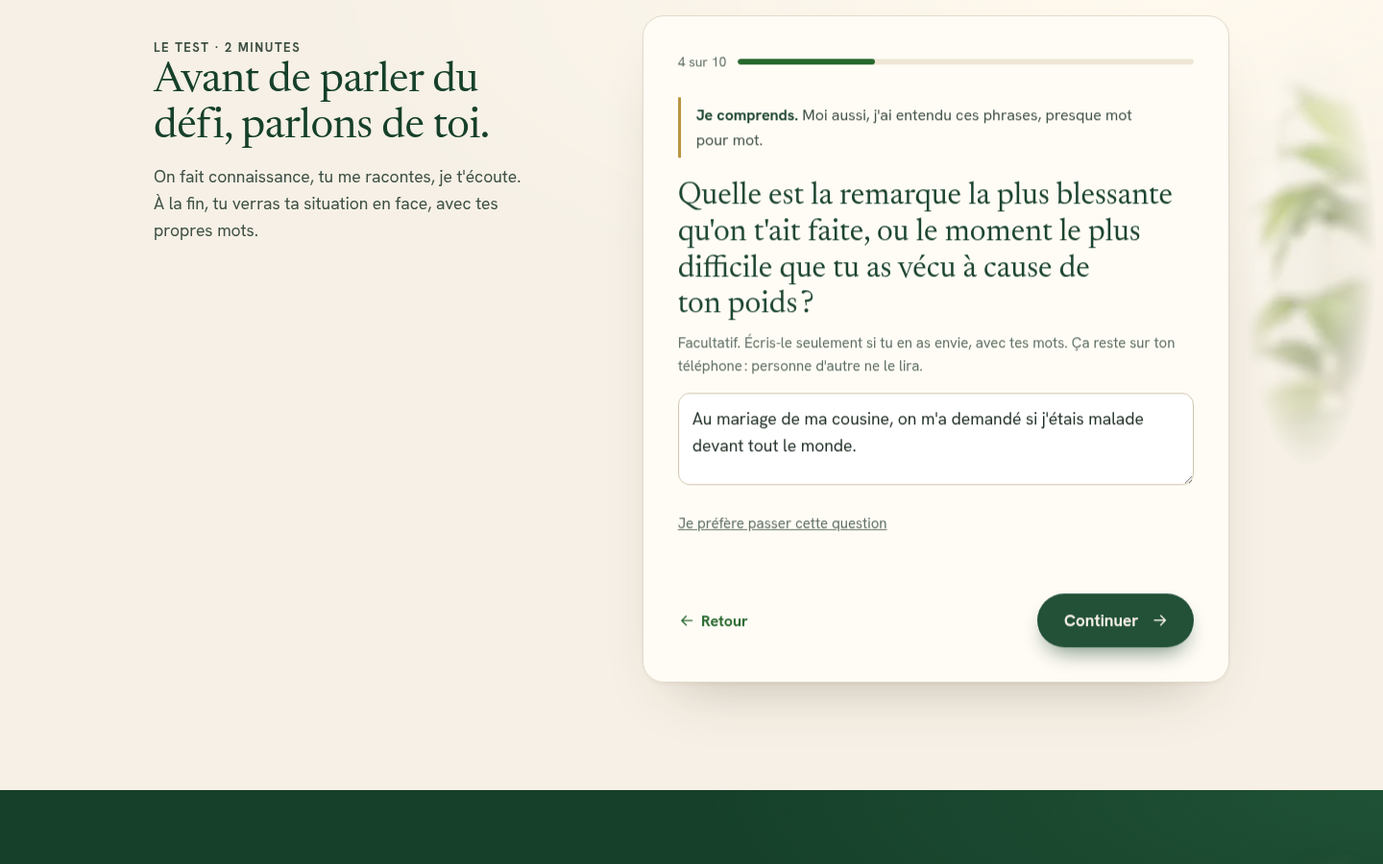
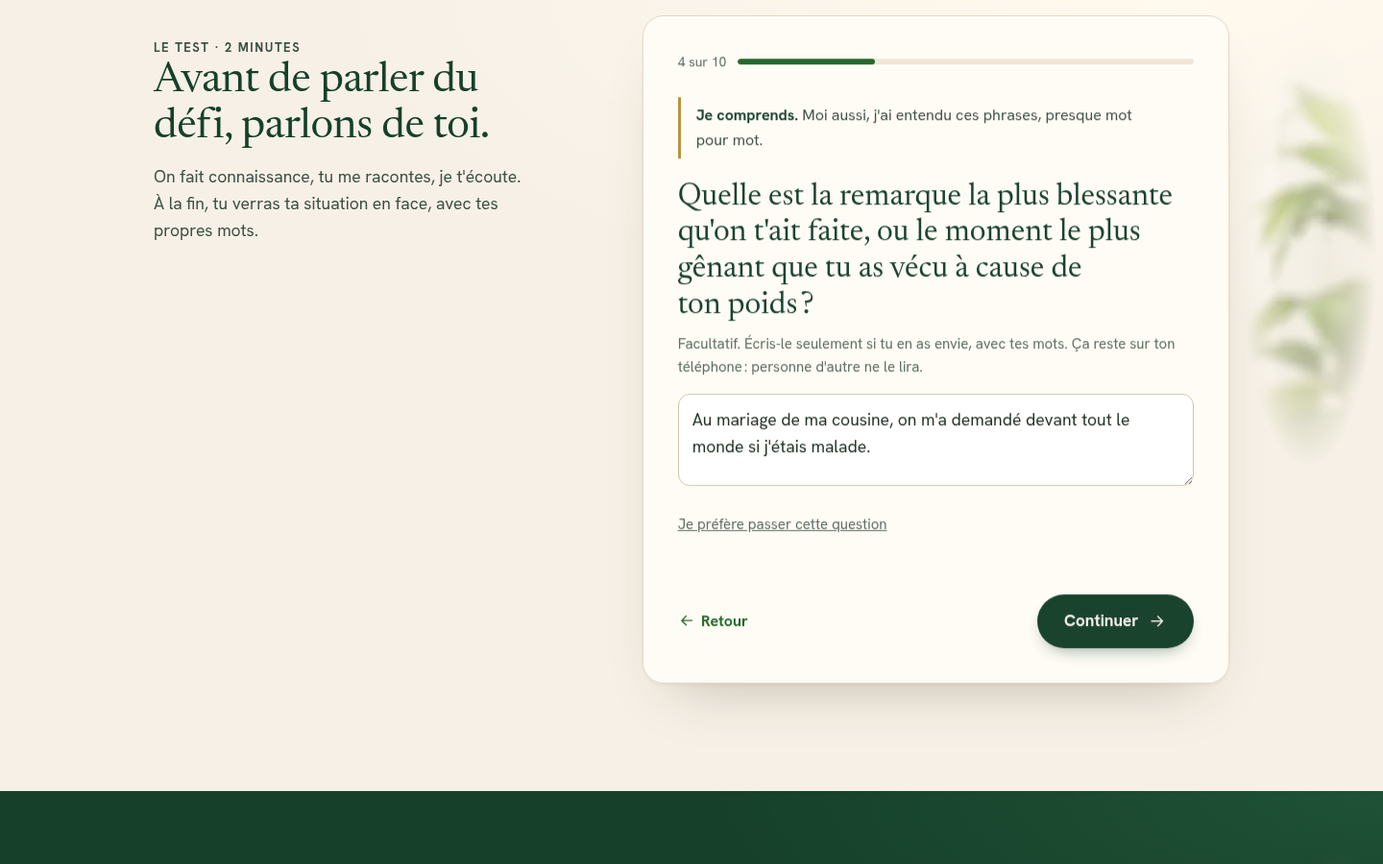
Livensya : tunnel v3 (David, histoire du livre, contact avec icônes, effets de la section finale)
Claude-Session: https://claude.ai/code/session_01SDp3TmwNu6wkPxHhoSS3B7

diff --git a/sites/livensya/js/app.js b/sites/livensya/js/app.js
@@ -14,7 +14,7 @@ const VIDEO_AFFICHE = '';
 
 /* Prénom du narrateur, celui du livre « Défi 60 jours ». Il remplit tous les [data-prenom] de la page
    et parle dans le test. Laisse vide ('') pour un texte neutre (la phrase « Moi, c'est … » disparaît). */
-const PRENOM_NARRATEUR = '[Prénom]';
+const PRENOM_NARRATEUR = 'David';
 
 /* Pour brancher plus tard une collecte (Google Sheets, CRM, WhatsApp…).
    Pour l'instant : NE FAIT RIEN, aucune donnée ne quitte le téléphone. */
@@ -101,22 +101,22 @@ function envoyerLead(donnees) {
       titre: function () { return avecPrenom('Enchanté, ', '. ') + 'Depuis quand tu te trouves mince ?'; },
       options: [['enfance', "Depuis toujours, depuis l'enfance"], ['ado', "Depuis l'adolescence"], ['annees', 'Depuis quelques années'], ['recent', "Depuis peu : j'ai perdu du poids sans savoir pourquoi"]] },
     { id: 'phrases', type: 'multi', titre: "Qu'est-ce qu'on te dit le plus souvent ?", aide: 'Choisis tout ce que tu entends.', citations: true,
-      options: [['vent', '« Le vent va t\'emporter. »'], ['mange', '« Mange un peu, toi. »'], ['malade', '« Tu es malade ? »'], ['age', '« Tu as quel âge, 15 ans ? »'], ['maison', '« On ne te donne pas à manger chez toi ? »'], ['rien', "On ne me dit rien, mais je le pense"]] },
+      options: [['vent', '« Le vent va t\'emporter. »'], ['mange', '« Mange un peu, toi. »'], ['malade', '« Tu es malade ? »'], ['age', '« Tu as quel âge, 15 ans ? »'], ['maison', '« On ne te donne pas à manger chez toi ? »'], ['rien', "On ne me dit rien, mais je le pense"], ['autre', 'Autre chose']], autre: true },
     { id: 'blessure', type: 'texte',
       encart: function () { return '<strong>Je comprends.</strong> Moi aussi, j\'ai entendu ces phrases, presque mot pour mot.'; },
-      titre: "Quelle est la remarque la plus blessante qu'on t'ait faite, ou le moment le plus difficile que tu as vécu à cause de ton poids ?",
+      titre: "Quelle est la remarque la plus blessante qu'on t'ait faite, ou le moment le plus gênant que tu as vécu à cause de ton poids ?",
       aide: 'Facultatif. Écris-le seulement si tu en as envie, avec tes mots. Ça reste sur ton téléphone : personne d\'autre ne le lira.',
       placeholder: 'ex. Le jour où…', passer: 'Je préfère passer cette question' },
     { id: 'essais', type: 'multi', titre: "Qu'est-ce que tu as déjà essayé pour prendre du poids ?", aide: 'Choisis tout ce qui te concerne.',
-      encart: function () { return R.blessure ? '<strong>Merci de m\'avoir confié ça.</strong> Ce n\'est pas rien de l\'écrire. Moi aussi, je l\'ai vécu.' : ''; },
+      encart: function () { return R.blessure ? '<strong>Merci de m\'avoir confié ça.</strong> Ce n\'est pas rien de l\'écrire. Moi aussi, j\'ai vécu un moment comme ça.' : ''; },
       options: [['forcer', 'Me forcer à manger plus'], ['sirops', 'Des sirops ou des comprimés pour grossir'], ['poudres', 'Des poudres ou des compléments'], ['sport', 'Le sport ou la musculation'], ['rien', "Rien de précis pour l'instant"]] },
     { id: 'miroir', type: 'unique', titre: 'Devant le miroir ou sur une photo, tu…',
       options: [['evite', "J'évite les photos"], ['cache', 'Je cache mon corps sous des habits larges'], ['compare', 'Je me compare aux autres'], ['ok', 'Ça va, mais je veux me sentir mieux']] },
     { id: 'mesures', type: 'mesures', titre: 'Ton âge, ta taille et ton poids',
       aide: 'Pourquoi je te demande ça : pour calculer ton IMC, un repère indicatif. Rien n\'est envoyé, tout reste sur ton téléphone.' },
     { id: 'image', type: 'unique',
-      encart: function () { return '<strong>' + (avecPrenom('Merci, ', '.') || 'Merci.') + '</strong> Un chiffre n\'est pas un jugement, c\'est juste ton point de départ. Le mien aussi était bas.'; },
-      titre: "Quand tu t'imagines avec ton poids idéal, qu'est-ce que tu remarques en premier ?",
+      encart: function () { return '<strong>' + (avecPrenom('Merci, ', '.') || 'Merci.') + '</strong> Un chiffre n\'est pas un jugement, c\'est juste ton point de départ. Moi aussi, je suis parti de là.'; },
+      titre: "Imagine-toi avec ton poids idéal. Quelle serait la première chose que tu aimerais sur toi ?",
       options: [['visage', 'Mon visage, plus plein et reposé'], ['epaules', 'Mes épaules et mes bras, plus solides'], ['habits', 'Mes vêtements, enfin à ma taille'], ['silhouette', 'Ma silhouette, plus harmonieuse'], ['regard', 'Mon regard, plus sûr de moi']] },
     { id: 'vivre', type: 'vivre', titre: 'Comment tu te vois dans 60 jours ?', aide: 'Choisis ce qui te parle, puis dis-le avec tes mots si tu veux.',
       options: [['tenue', 'Je porte une tenue ajustée, sans gêne'], ['enfant', 'On ne me prend plus pour un enfant'], ['photo', "J'ai une photo de moi que j'ai envie de partager"], ['plage', 'Je vais à la plage sans me cacher'], ['remarques', 'Les remarques ne me touchent plus']] },
@@ -155,7 +155,7 @@ function envoyerLead(donnees) {
     return '<div class="choix' + (multi ? ' choix--multi' : '') + '">' + e.options.map(function (o) {
       var coche = multi ? (v || []).indexOf(o[0]) > -1 : v === o[0];
       return '<label><input type="' + (multi ? 'checkbox' : 'radio') + '" name="' + nom + '" value="' + o[0] + '"' + (coche ? ' checked' : '') + '>' +
-        '<span class="case">' + ICONE_COCHE + '</span><span' + (e.citations && o[0] !== 'rien' ? ' class="citation"' : '') + '>' + o[1] + '</span></label>';
+        '<span class="case">' + ICONE_COCHE + '</span><span' + (e.citations && o[0] !== 'rien' && o[0] !== 'autre' ? ' class="citation"' : '') + '>' + o[1] + '</span></label>';
     }).join('') + '</div>';
   }
 
@@ -168,9 +168,10 @@ function envoyerLead(donnees) {
     if (encart) h += '<p class="encart">' + encart + '</p>';
     if (e.type === 'unique' || e.type === 'multi') {
       h += '<fieldset class="question"><legend>' + titre + '</legend>' + (aide ? '<p class="aide">' + aide + '</p>' : '') + htmlOptions(e, e.type === 'multi') + '</fieldset>';
+      if (e.autre) h += '<div class="champ champ--large champ-autre" style="margin-top:12px"' + ((R[e.id] || []).indexOf('autre') > -1 ? '' : ' hidden') + '><label for="autre-' + e.id + '">La phrase qu\'on te dit</label><input id="autre-' + e.id + '" maxlength="90" autocomplete="off" placeholder="ex. Tu vas t\'envoler" value="' + echapper(R.phraseAutre || '') + '"></div>';
     } else if (e.type === 'prenom') {
       h += '<div class="question"><p class="titre-q">' + titre + '</p><p class="aide">' + aide + '</p>' +
-        '<div class="champ champ--large" style="margin-top:16px"><label for="prenom">Ton prénom</label><input id="prenom" autocomplete="given-name" maxlength="30" placeholder="ex. Awa" value="' + echapper(R.prenom || '') + '"></div></div>';
+        '<div class="champ champ--large" style="margin-top:16px"><label for="prenom">Ton prénom</label><input id="prenom" autocomplete="given-name" maxlength="30" placeholder="ex. Ellie" value="' + echapper(R.prenom || '') + '"></div></div>';
     } else if (e.type === 'texte') {
       h += '<div class="question"><p class="titre-q" id="t-' + e.id + '">' + titre + '</p><p class="aide">' + aide + '</p>' +
         '<div class="champ champ--large" style="margin-top:16px"><label class="sr" for="txt-' + e.id + '">Ta réponse</label><textarea id="txt-' + e.id + '" maxlength="280" placeholder="' + e.placeholder + '">' + echapper(R[e.id] || '') + '</textarea></div>' +
@@ -206,6 +207,11 @@ function envoyerLead(donnees) {
     }
     var suiv = carte.querySelector('[data-suivant]');
     if (suiv) suiv.addEventListener('click', function () { valider(e, err) && suivante(); });
+    var caseAutre = carte.querySelector('input[value="autre"]');
+    if (caseAutre) caseAutre.addEventListener('change', function () {
+      var bloc = carte.querySelector('.champ-autre'); bloc.hidden = !caseAutre.checked;
+      if (caseAutre.checked) bloc.querySelector('input').focus();
+    });
     var champ = carte.querySelector('#prenom');
     if (champ) champ.addEventListener('keydown', function (ev) { if (ev.key === 'Enter') { ev.preventDefault(); suiv.click(); } });
     var passer = carte.querySelector('[data-passer]');
@@ -233,6 +239,10 @@ function envoyerLead(donnees) {
         R.phrase = (carte.querySelector('#phrase').value || '').trim().slice(0, 140);
         if (!v.length && !R.phrase) { err.textContent = typo('Choisis au moins une réponse, ou écris ta phrase.'); return false; }
       } else if (!v.length) { err.textContent = typo('Choisis au moins une réponse.'); return false; }
+      if (e.autre) {
+        R.phraseAutre = v.indexOf('autre') > -1 ? (carte.querySelector('#autre-' + e.id).value || '').trim().replace(/^[«"\s]+|[»"\s.!?]+$/g, '').slice(0, 90) : '';
+        if (v.indexOf('autre') > -1 && !R.phraseAutre) { err.textContent = typo('Écris la phrase qu\'on te dit, ou décoche « Autre chose ».'); return false; }
+      }
       R[e.id] = v; return true;
     }
     if (e.type === 'mesures') {
@@ -257,7 +267,7 @@ function envoyerLead(donnees) {
   function phraseFinale() {
     if (R.phrase) return R.phrase.replace(/^[«"\s]+|[»"\s]+$/g, '');
     var c = (R.vivre || [])[0];
-    return PHRASES_VIVRE[c] || 'Dans 60 jours, je me reconnais sur mes photos.';
+    return PHRASES_VIVRE[c] || 'Dans 60 jours, on ne me prend plus pour un enfant.';
   }
 
   function terminer() {
@@ -277,13 +287,14 @@ function envoyerLead(donnees) {
       rien: 'Tu n\'as encore rien essayé de précis. Tu pars sans mauvaises habitudes à défaire.'
     };
     var phrases = (R.phrases || []).filter(function (k) { return PHR[k]; }).map(function (k) { return '<span class="entendu">' + PHR[k] + '</span>'; });
+    if (R.phraseAutre) phrases.push('<span class="entendu">« ' + echapper(R.phraseAutre) + ' »</span>');
     var m = R.mesures || {};
 
     var miroir = avecPrenom('<p class="resultat__salut">Merci, ', ', d\'avoir répondu franchement. Je t\'ai lu attentivement.</p>');
     miroir += '<p>' + (DEPUIS[R.depuis] || '') + '</p>';
     if (phrases.length) miroir += '<p>Autour de toi, on te dit encore ' + liste(phrases) + '. ' + (MIR[R.miroir] || '') + '</p>';
     else if (MIR[R.miroir]) miroir += '<p>' + MIR[R.miroir] + '</p>';
-    if (R.blessure) miroir += '<p class="confidence">Tu m\'as confié un moment difficile. Ce que tu as vécu, je l\'ai vécu aussi : ce genre de phrase, on ne l\'oublie pas, même des années après. Tu n\'avais rien fait pour la mériter. Et tu as le droit de vouloir que ça s\'arrête.</p>';
+    if (R.blessure) miroir += '<p class="confidence">Tu m\'as confié un moment gênant. Je sais ce que ça fait : le jour où une personne que j\'appréciais m\'a dit qu\'elle me voyait « comme un frère », parce que je paraissais plus jeune, je ne l\'ai jamais oublié. Ce genre de moment reste longtemps. Tu n\'avais rien fait pour le mériter. Et tu as le droit de vouloir que ça change.</p>';
     (R.essais || []).forEach(function (k) { if (ESS[k]) miroir += '<p>' + ESS[k] + '</p>'; });
 
     var alerte = '';
@@ -309,7 +320,7 @@ function envoyerLead(donnees) {
     var phrase = phraseFinale();
     var cta = horsCible || R.depuis === 'recent' || m.age === 'moins18'
       ? '<div class="heros__actions"><a class="lien-discret" href="#histoire">Lire quand même mon histoire ' + icone('i-bas') + '</a></div>'
-      : '<div class="heros__actions"><a class="bouton bouton--plein" href="' + lienAchat() + '" data-achat>Commencer le défi ' + icone('i-fleche') + '</a><a class="lien-discret" href="#histoire">D\'abord, lire mon histoire</a><a class="lien-discret" href="#contenu">Voir ce que tu reçois</a></div>';
+      : '<div class="heros__actions"><a class="bouton bouton--plein" href="' + lienAchat() + '" data-achat>Commencer le défi ' + icone('i-fleche') + '</a><a class="lien-discret" href="#histoire">D\'abord, lire mon histoire</a></div>';
 
     var h = '<div class="resultat__grille">' +
       '<div class="miroir"><p class="etiquette">Ton résultat</p><h2 id="titre-resultat">Ce que tes réponses nous apprennent.</h2>' + miroir +
@@ -320,7 +331,7 @@ function envoyerLead(donnees) {
       cta + '</div></div>' +
       '<div>' + alerte + imcHtml +
       '<div class="panneau"><h3>Ta phrase</h3><p class="phrase-perso">« ' + echapper(phrase) + ' »</p><p style="margin-top:14px">' + (R.phrase ? 'Ce sont tes mots. ' : '') + 'Garde-la. Si tu fais le défi, écris-la sur la première page de ton carnet.</p></div>' +
-      (R.pret === 'sais-pas' ? '<div class="panneau"><h3>Tu hésites</h3><p>C\'est normal. Moi non plus, je n\'étais pas prêt à 100 %. Le défi ne demande pas d\'être parfait : un jour raté n\'efface pas les autres.</p></div>' : '') +
+      (R.pret === 'sais-pas' ? '<div class="panneau"><h3>Tu hésites</h3><p>C\'est normal. Moi aussi, j\'ai eu des jours sans motivation. Je n\'ai pas été parfait, mais je n\'ai pas abandonné. Le défi ne demande pas d\'être parfait : un jour raté n\'efface pas les autres.</p></div>' : '') +
       '</div></div>';
 
     var sec = document.getElementById('resultat');
@@ -382,6 +393,7 @@ function envoyerLead(donnees) {
   function observateurs() {
     if (!('IntersectionObserver' in window)) {
       document.querySelectorAll('.revele').forEach(function (el) { el.classList.add('vu'); });
+      var f = document.querySelector('.final'); if (f) f.classList.add('anime');
       return;
     }
     var io = new IntersectionObserver(function (es) {
@@ -399,6 +411,11 @@ function envoyerLead(donnees) {
       var a = barre.querySelector('a'); if (a) a.tabIndex = montrer ? 0 : -1;
     });
     cibles.forEach(function (c) { var el = document.querySelector(c); if (el) { el.dataset.zone = c; ob.observe(el); } });
+
+    var fin = document.querySelector('.final');
+    if (fin) new IntersectionObserver(function (es, o) {
+      if (es[0].isIntersecting) { fin.classList.add('anime'); o.disconnect(); }
+    }, { threshold: 0.45 }).observe(fin);
 
     var offre = document.getElementById('offre'), vu = false;
     if (offre) new IntersectionObserver(function (es, o) {

diff --git a/sites/livensya/index.html b/sites/livensya/index.html
@@ -30,6 +30,8 @@
 <body data-page="offre">
 
 <svg width="0" height="0" style="position:absolute" aria-hidden="true">
+  <symbol id="i-whatsapp" viewBox="0 0 24 24"><path d="M17.472 14.382c-.297-.149-1.758-.867-2.03-.967-.273-.099-.471-.148-.67.15-.197.297-.767.966-.94 1.164-.173.199-.347.223-.644.075-.297-.15-1.255-.463-2.39-1.475-.883-.788-1.48-1.761-1.653-2.059-.173-.297-.018-.458.13-.606.134-.133.298-.347.446-.52.149-.174.198-.298.298-.497.099-.198.05-.371-.025-.52-.075-.149-.669-1.612-.916-2.207-.242-.579-.487-.5-.669-.51-.173-.008-.371-.01-.57-.01-.198 0-.52.074-.792.372-.272.297-1.04 1.016-1.04 2.479 0 1.462 1.065 2.875 1.213 3.074.149.198 2.096 3.2 5.077 4.487.709.306 1.262.489 1.694.625.712.227 1.36.195 1.871.118.571-.085 1.758-.719 2.006-1.413.248-.694.248-1.289.173-1.413-.074-.124-.272-.198-.57-.347m-5.421 7.403h-.004a9.87 9.87 0 01-5.031-1.378l-.361-.214-3.741.982.998-3.648-.235-.374a9.86 9.86 0 01-1.51-5.26c.001-5.45 4.436-9.884 9.888-9.884 2.64 0 5.122 1.03 6.988 2.898a9.825 9.825 0 012.893 6.994c-.003 5.45-4.437 9.884-9.885 9.884m8.413-18.297A11.815 11.815 0 0012.05 0C5.495 0 .16 5.335.157 11.892c0 2.096.547 4.142 1.588 5.945L.057 24l6.305-1.654a11.882 11.882 0 005.683 1.448h.005c6.554 0 11.89-5.335 11.893-11.893a11.821 11.821 0 00-3.48-8.413Z"/></symbol>
+  <symbol id="i-enveloppe" viewBox="0 0 24 24"><rect x="3" y="5" width="18" height="14" rx="2"/><path d="M3.5 6.5L12 13l8.5-6.5"/></symbol>
   <symbol id="i-fleche" viewBox="0 0 24 24"><path d="M5 12h14M13 6l6 6-6 6"/></symbol>
   <symbol id="i-bas" viewBox="0 0 24 24"><path d="M12 5v14M6 13l6 6 6-6"/></symbol>
   <symbol id="i-retour" viewBox="0 0 24 24"><path d="M19 12H5M11 6l-6 6 6 6"/></symbol>
@@ -125,11 +127,15 @@
     <div class="recit revele">
       <p class="etiquette">Mon histoire</p>
       <h2 id="titre-histoire" class="titre-section">« On me donnait 14 ans. J'en avais 24. »</h2>
-      <!-- HISTOIRE DU LIVRE À INSÉRER : remplacer les 3 paragraphes provisoires ci-dessous par l'histoire du narrateur, telle qu'elle est racontée dans le livre « Défi 60 jours ». Garder la 1re personne et le tutoiement. -->
-      <p class="lettrine">Pendant des années, j'ai entendu les mêmes phrases que toi. Je mangeais, pourtant, et rien ne changeait. Je finissais par éviter les photos.</p>
-      <p>Ce qui a fini par marcher n'avait rien de magique : des repas mieux construits, avec ce qu'on trouve au marché, et la régularité, un jour après l'autre.</p>
-      <p>Ce défi, c'est ce chemin, rangé en 60 jours, pour que tu n'aies pas à tout chercher seul comme moi.</p>
-      <p class="signature" data-prenom data-repli="L'auteur du défi">L'auteur du défi</p>
+      <!-- Histoire de David, réécrite à la 1re personne d'après la préface du livre « Défi 60 jours ». -->
+      <p class="lettrine">Depuis l'adolescence, je suis très mince. De l'extérieur, j'avais une vie normale : un travail, une famille, des amis. Mais les remarques revenaient sans cesse. « Tu ne manges pas assez ou quoi ? » « Tu es toujours aussi maigre… » « On dirait que tu n'as pas changé depuis le lycée. »</p>
+      <p>Au début, je souriais. Je répondais avec humour. Mais ces phrases ne disparaissaient pas. Elles restaient. Sans m'en rendre compte, j'ai commencé à choisir des vêtements plus amples, à éviter certaines situations, à me mettre toujours à l'arrière sur les photos.</p>
+      <p>Le plus dur, ce n'était pas les remarques. C'était « Mange plus, c'est simple. » Je mangeais déjà correctement, parfois plus que les autres. J'ai essayé des conseils trouvés en ligne, ceux de mes proches, des méthodes entendues ici et là. Rien ne durait. J'ai fini par croire que mon corps ne changerait jamais.</p>
+      <p>Puis il y a eu elle. Une jeune femme que j'appréciais beaucoup. Un jour, je lui ai dit ce que je ressentais. Sa réponse a été douce, mais claire : elle me voyait comme un frère. Entre autres parce que je paraissais plus jeune que mon âge.</p>
+      <p>Ce soir-là, je me suis regardé dans le miroir. Et pour la première fois, je me suis posé la vraie question : « Qu'est-ce que je fais mal depuis tout ce temps ? » J'ai compris qu'il ne me manquait ni volonté, ni effort. Il me manquait une méthode, simple et adaptée à mon quotidien.</p>
+      <p>Les résultats ne sont pas arrivés du jour au lendemain. Mais ils sont arrivés, petit à petit. Mes vêtements ont commencé à mieux m'aller. Et un jour, on m'a dit : « Tu as changé. Tu as bonne mine. » Ce défi, c'est ce chemin, rangé en 60 jours, pour que tu n'aies pas à tout chercher seul, comme moi.</p>
+      <p class="signature" data-prenom data-repli="L'auteur du défi">David</p>
+      <p class="mention-histoire">L'histoire de David est inspirée de situations réelles.</p>
       <div class="relance relance--histoire"><a class="bouton bouton--plein" href="https://ykhzgspm.mychariow.store" data-achat>Faire le défi avec moi <svg class="icone" aria-hidden="true"><use href="#i-fleche"/></svg></a><a class="lien-discret" href="#contenu">D'abord, voir ce que tu reçois</a></div>
     </div>
   </div>
@@ -309,12 +315,12 @@
         <li><svg class="icone" aria-hidden="true"><use href="#i-coche"/></svg><span>Accès à vie, sur ton téléphone</span></li>
       </ul>
       <a class="bouton bouton--plein" href="https://ykhzgspm.mychariow.store" data-achat>Rejoindre le défi maintenant <svg class="icone" aria-hidden="true"><use href="#i-fleche"/></svg></a>
-      <a class="lien-discret lien-whatsapp" href="https://wa.me/22995726957" rel="noopener">Une question avant d'acheter ? Écris-moi sur WhatsApp</a>
+      
       <p class="micro"><svg class="icone" aria-hidden="true"><use href="#i-cadenas"/></svg>Paiement sécurisé par Chariow. Livensya ne voit jamais ton code Mobile Money. Accès par e-mail en quelques minutes. Pas reçu ? Écris-nous sur WhatsApp.</p>
       <div class="moyens" aria-label="Moyens de paiement acceptés"><span>MTN MoMo</span><span>Moov Money</span><span>Orange Money</span><span>Wave</span><span>Carte bancaire</span></div>
       <div class="signe">
-        <img src="images/enock-apres-480.webp" width="64" height="64" loading="lazy" decoding="async" alt="">
-        <p><strong>Une question avant de te lancer ?</strong> Écris-moi sur <a href="https://wa.me/22995726957" rel="noopener">WhatsApp au +229 95 72 69 57</a> ou à <a href="mailto:contact@emkbluediamond.online">contact@emkbluediamond.online</a>. <span data-prenom data-repli="L'auteur du défi">L'auteur du défi</span></p>
+        <p><strong>Une question avant de te lancer ?</strong> Écris-nous, on te répond.</p>
+        <ul class="contacts"><li><a class="contact" href="https://wa.me/22995726957" rel="noopener"><svg class="icone-wa" aria-hidden="true"><use href="#i-whatsapp"/></svg><span>WhatsApp<b>+229 95 72 69 57</b></span></a></li><li><a class="contact" href="mailto:contact@emkbluediamond.online"><svg class="icone" aria-hidden="true"><use href="#i-enveloppe"/></svg><span>E-mail<b>contact@emkbluediamond.online</b></span></a></li></ul>
       </div>
     </div>
     <div class="revele">
@@ -341,7 +347,7 @@
       <h2 id="titre-faq" class="titre-section">Ce qu'on nous demande avant de commencer.</h2>
     </div>
     <div>
-      <details>
+      <details open>
         <summary>Est-ce que ça marche pour les femmes aussi ?<svg class="icone" aria-hidden="true"><use href="#i-plus"/></svg></summary>
         <div><p>Oui. Le défi est pensé pour les hommes et pour les femmes en sous-poids. Les repas et les habitudes sont les mêmes bases.</p></div>
       </details>
@@ -363,7 +369,11 @@
       </details>
       <details>
         <summary>Je n'ai pas reçu l'e-mail, je fais comment ?<svg class="icone" aria-hidden="true"><use href="#i-plus"/></svg></summary>
-        <div><p>Regarde d'abord dans les spams et l'onglet « Promotions ». Ton accès est aussi dans l'e-mail de confirmation de Chariow. Toujours rien ? Écris-nous sur <a href="https://wa.me/22995726957" rel="noopener">WhatsApp au +229 95 72 69 57</a> ou à <a href="mailto:contact@emkbluediamond.online">contact@emkbluediamond.online</a>, avec l'e-mail utilisé pour payer.</p></div>
+        <div><p>Regarde d'abord dans les spams et l'onglet « Promotions ». Ton accès est aussi dans l'e-mail de confirmation de Chariow. Toujours rien ? Écris-nous avec l'e-mail utilisé pour payer :</p><ul class="contacts"><li><a class="contact" href="https://wa.me/22995726957" rel="noopener"><svg class="icone-wa" aria-hidden="true"><use href="#i-whatsapp"/></svg><span>WhatsApp<b>+229 95 72 69 57</b></span></a></li><li><a class="contact" href="mailto:contact@emkbluediamond.online"><svg class="icone" aria-hidden="true"><use href="#i-enveloppe"/></svg><span>E-mail<b>contact@emkbluediamond.online</b></span></a></li></ul></div>
+      </details>
+      <details>
+        <summary>Et si ça ne marche pas pour moi ?<svg class="icone" aria-hidden="true"><use href="#i-plus"/></svg></summary>
+        <div><p>Personne ne peut te promettre un résultat, et on ne le fera pas. Si tu bloques en route, écris-nous sur WhatsApp au +229 95 72 69 57 : on regarde avec toi ce qui coince (repas, rythme, régularité). Et si ton poids ne bouge pas du tout malgré 60 jours réguliers, parles-en à un professionnel de santé.</p></div>
       </details>
       <details>
         <summary>J'ai maigri récemment sans savoir pourquoi. Le défi est pour moi ?<svg class="icone" aria-hidden="true"><use href="#i-plus"/></svg></summary>
@@ -380,8 +390,8 @@
 <!-- ============ 12. FINAL : LES MOTS QUI COMPTENT ============ -->
 <section class="sombre final" aria-labelledby="titre-final">
   <div class="conteneur">
-    <p class="barre-vieux"><s>« Le vent va t'emporter. »</s></p>
-    <h2 id="titre-final" class="mots-finaux">« <span data-phrase-finale>Dans 60 jours, je me reconnais sur mes photos.</span> »</h2>
+    <p class="barre-vieux"><s class="barre-live">« Le vent va t'emporter. »</s></p>
+    <h2 id="titre-final" class="mots-finaux"><span class="souligne-live">« <span data-phrase-finale>Dans 60 jours, on ne me prend plus pour un enfant.</span> »</span></h2>
     <p data-phrase-legende>Les mots qu'on t'a dits, tu ne les choisis pas. Les prochains, si. Le jour 1 peut commencer ce soir.</p>
     <div class="heros__actions">
       <a class="bouton bouton--plein" href="https://ykhzgspm.mychariow.store" data-achat>Commencer le défi <svg class="icone" aria-hidden="true"><use href="#i-fleche"/></svg></a>
@@ -398,8 +408,8 @@
       <a href="https://ykhzgspm.mychariow.store/legal-notice" rel="noopener">Mentions légales</a>
       <a href="https://ykhzgspm.mychariow.store/terms-of-service" rel="noopener">Conditions d'utilisation</a>
       <a href="https://ykhzgspm.mychariow.store/privacy-policy" rel="noopener">Confidentialité</a>
-      <a href="https://wa.me/22995726957" rel="noopener">WhatsApp</a>
-      <a href="mailto:contact@emkbluediamond.online">contact@emkbluediamond.online</a>
+      <a href="https://wa.me/22995726957" rel="noopener" class="pied__contact"><svg class="icone-wa" aria-hidden="true"><use href="#i-whatsapp"/></svg>WhatsApp +229 95 72 69 57</a>
+      <a href="mailto:contact@emkbluediamond.online" class="pied__contact"><svg class="icone" aria-hidden="true"><use href="#i-enveloppe"/></svg>contact@emkbluediamond.online</a>
     </nav>
     <p>Les informations de ce site sont données à titre informatif. Elles ne remplacent pas l'avis d'un médecin ou d'un diététicien. En cas de perte de poids importante ou inexpliquée, consulte un professionnel de santé. Les résultats varient d'une personne à l'autre.</p>
     <p>Le test se fait dans ton navigateur : tes réponses restent sur ton téléphone. Ce site n'est ni affilié ni approuvé par Meta ou Facebook.</p>

diff --git a/sites/livensya/css/style.css b/sites/livensya/css/style.css
@@ -118,6 +118,7 @@ a:hover { text-decoration-thickness: 2px; }
 .tirage figcaption strong { color: var(--encre); display: block; font-family: var(--serif); font-style: italic; font-size: 1.25rem; font-weight: 400; }
 .heros__photo { width: 84%; justify-self: end; position: relative; }
 .heros__photo .tirage { transform: rotate(1.5deg); }
+.heros__photo .tirage figcaption { margin-top: 26px; }
 .presentation { font-family: var(--serif); font-style: italic; font-size: 1.1875rem; line-height: 1.4; color: var(--foret); margin: 0 0 18px; max-width: 22em; }
 .presentation b { font-weight: 500; font-style: italic; }
 .amorce { margin: 20px 0 4px; color: var(--sauge); letter-spacing: .14em; }
@@ -368,9 +369,15 @@ a:hover { text-decoration-thickness: 2px; }
 .final::before { content: ""; position: absolute; left: 0; right: 0; top: -1px; height: 56px; background: var(--creme); clip-path: path("M0 0 L 2400 0 L 2400 10 C 1900 60, 1300 70, 800 30 S 200 0, 0 34 Z"); }
 @media (min-width: 900px) { .final::before { height: 80px; clip-path: path("M0 0 L 2400 0 L 2400 10 C 1900 80, 1300 90, 800 40 S 200 0, 0 50 Z"); } }
 .final .barre-vieux { font-family: var(--serif); font-style: italic; color: var(--sauge-clair); font-size: 1.375rem; margin-bottom: 20px; }
-.final .barre-vieux s { text-decoration: none; background: var(--vague-claire) no-repeat center 60% / 100% .45em; }
+.final .barre-vieux s { text-decoration: none; background: var(--vague-claire) no-repeat left 60% / 100% .45em; }
 .final .mots-finaux { font-family: var(--serif); font-style: italic; font-size: clamp(2.25rem, 8.6vw, 4.25rem); line-height: 1.15; color: #fff; margin: 0 0 24px; max-width: 14em; }
-.final .mots-finaux span { background: var(--vague-claire) no-repeat left 100% / 100% .28em; padding-bottom: .12em; -webkit-box-decoration-break: clone; box-decoration-break: clone; }
+.final .souligne-live { background: var(--vague-claire) no-repeat left 100% / 100% .28em; padding-bottom: .12em; }
+/* Effets en direct quand la section entre à l'écran (classe .anime posée par js/app.js) */
+.js .final .barre-live { background-size: 0% .45em; transition: background-size 1.2s cubic-bezier(.45,0,.2,1) .3s; }
+.js .final .souligne-live { background-size: 0% .28em; transition: background-size 2s cubic-bezier(.45,0,.2,1) 1.6s; }
+.js .final.anime .barre-live { background-size: 100% .45em; }
+.js .final.anime .souligne-live { background-size: 100% .28em; }
+@media (prefers-reduced-motion: reduce) { .js .final .barre-live { background-size: 100% .45em; } .js .final .souligne-live { background-size: 100% .28em; } }
 .final p { color: #D5DED5; max-width: 32em; }
 .final .heros__actions { margin-top: 28px; }
 
@@ -402,10 +409,8 @@ a:hover { text-decoration-thickness: 2px; }
 .calendrier__legende { align-items: center; gap: 8px; }
 .calendrier__rate { display: inline-flex; align-items: center; gap: 6px; }
 .calendrier__rate i { width: 12px; height: 12px; border-radius: 50%; border: 1.5px dashed #CDBFA6; display: inline-block; }
-.signe { display: grid; grid-template-columns: 56px 1fr; gap: 14px; align-items: center; margin-top: 22px; padding-top: 20px; border-top: 1px solid var(--trait); }
-.signe img { width: 56px; height: 56px; border-radius: 50%; object-fit: cover; object-position: 50% 0; border: 2px solid #fff; box-shadow: 0 6px 14px -8px rgba(28,43,33,.5); }
+.signe { margin-top: 22px; padding-top: 20px; border-top: 1px solid var(--trait); }
 .signe p { margin: 0; font-size: .9375rem; }
-.signe span { display: block; font-family: var(--serif); font-style: italic; color: var(--sauge); margin-top: 2px; }
 @media (max-width: 599px) {
   .photos-duo { gap: 10px; margin: 0 -8px; }
   .photos-duo .tirage:nth-child(2) { margin-top: 32px; }
@@ -428,6 +433,18 @@ a:hover { text-decoration-thickness: 2px; }
 .choix-doux { font-family: var(--serif); font-style: italic; font-size: 1.25rem; color: var(--foret); margin: 0 0 20px; }
 
 .lien-whatsapp { margin-top: 6px; }
+
+/* Contacts (WhatsApp + e-mail) */
+.contacts { list-style: none; margin: 14px 0 0; padding: 0; display: grid; gap: 10px; }
+.contact { display: flex; align-items: center; gap: 12px; min-height: 52px; padding: 10px 16px; border: 1px solid var(--trait); border-radius: 16px; background: var(--lin); color: var(--encre); text-decoration: none; transition: border-color .3s ease, background-color .3s ease, box-shadow .3s ease; }
+.contact:hover { border-color: #C9B996; background: #fff; box-shadow: 0 8px 18px -12px rgba(60,48,20,.35); text-decoration: none; }
+.contact span { font-size: .8125rem; color: var(--sauge); line-height: 1.3; overflow-wrap: anywhere; min-width: 0; }
+.contact b { display: block; font-size: clamp(.875rem, 3.7vw, 1rem); color: var(--encre); letter-spacing: -.005em; }
+.contact .icone { width: 22px; height: 22px; color: var(--feuille); }
+.icone-wa { width: 22px; height: 22px; flex: none; fill: var(--feuille); }
+.pied__contact { gap: 8px; }
+.pied__contact .icone, .pied__contact .icone-wa { width: 18px; height: 18px; }
+.mention-histoire { font-size: .8125rem; color: var(--sauge); font-style: italic; margin: 4px 0 0; }
 
 /* Apparitions au défilement */
 .js .revele { opacity: 0; transform: translateY(18px); transition: opacity 1.1s cubic-bezier(.2,.7,.2,1), transform 1.1s cubic-bezier(.2,.7,.2,1); }

diff --git a/sites/livensya/merci.html b/sites/livensya/merci.html
@@ -22,6 +22,8 @@
 <body>
 
 <svg width="0" height="0" style="position:absolute" aria-hidden="true">
+  <symbol id="i-whatsapp" viewBox="0 0 24 24"><path d="M17.472 14.382c-.297-.149-1.758-.867-2.03-.967-.273-.099-.471-.148-.67.15-.197.297-.767.966-.94 1.164-.173.199-.347.223-.644.075-.297-.15-1.255-.463-2.39-1.475-.883-.788-1.48-1.761-1.653-2.059-.173-.297-.018-.458.13-.606.134-.133.298-.347.446-.52.149-.174.198-.298.298-.497.099-.198.05-.371-.025-.52-.075-.149-.669-1.612-.916-2.207-.242-.579-.487-.5-.669-.51-.173-.008-.371-.01-.57-.01-.198 0-.52.074-.792.372-.272.297-1.04 1.016-1.04 2.479 0 1.462 1.065 2.875 1.213 3.074.149.198 2.096 3.2 5.077 4.487.709.306 1.262.489 1.694.625.712.227 1.36.195 1.871.118.571-.085 1.758-.719 2.006-1.413.248-.694.248-1.289.173-1.413-.074-.124-.272-.198-.57-.347m-5.421 7.403h-.004a9.87 9.87 0 01-5.031-1.378l-.361-.214-3.741.982.998-3.648-.235-.374a9.86 9.86 0 01-1.51-5.26c.001-5.45 4.436-9.884 9.888-9.884 2.64 0 5.122 1.03 6.988 2.898a9.825 9.825 0 012.893 6.994c-.003 5.45-4.437 9.884-9.885 9.884m8.413-18.297A11.815 11.815 0 0012.05 0C5.495 0 .16 5.335.157 11.892c0 2.096.547 4.142 1.588 5.945L.057 24l6.305-1.654a11.882 11.882 0 005.683 1.448h.005c6.554 0 11.89-5.335 11.893-11.893a11.821 11.821 0 00-3.48-8.413Z"/></symbol>
+  <symbol id="i-enveloppe" viewBox="0 0 24 24"><rect x="3" y="5" width="18" height="14" rx="2"/><path d="M3.5 6.5L12 13l8.5-6.5"/></symbol>
   <symbol id="i-coche" viewBox="0 0 24 24"><path d="M4 12.5l5 5L20 6.5"/></symbol>
   <symbol id="i-mail" viewBox="0 0 24 24"><rect x="3" y="5" width="18" height="14" rx="2"/><path d="M3.5 6.5L12 13l8.5-6.5"/></symbol>
   <symbol id="i-telechargement" viewBox="0 0 24 24"><path d="M12 4v11M7 10l5 5 5-5M5 20h14"/></symbol>
@@ -56,7 +58,7 @@
         <li><div><b>Garde-les dans ton téléphone</b><span>Dans le dossier Téléchargements ou dans ton lecteur PDF : tu pourras les lire sans connexion, même en déplacement.</span></div></li>
       </ol>
       <div class="honnete">
-        <p><strong>Rien reçu du tout ?</strong> Écris-nous sur <a href="https://wa.me/22995726957" rel="noopener">WhatsApp au +229 95 72 69 57</a> ou à <a href="mailto:contact@emkbluediamond.online">contact@emkbluediamond.online</a>, avec l'e-mail utilisé pour payer. On te répond au plus vite.</p>
+        <p><strong>Rien reçu du tout ?</strong> Écris-nous avec l'e-mail utilisé pour payer, on te répond au plus vite.</p><ul class="contacts"><li><a class="contact" href="https://wa.me/22995726957" rel="noopener"><svg class="icone-wa" aria-hidden="true"><use href="#i-whatsapp"/></svg><span>WhatsApp<b>+229 95 72 69 57</b></span></a></li><li><a class="contact" href="mailto:contact@emkbluediamond.online"><svg class="icone" aria-hidden="true"><use href="#i-enveloppe"/></svg><span>E-mail<b>contact@emkbluediamond.online</b></span></a></li></ul>
       </div>
     </div>
 
@@ -90,8 +92,8 @@
       <a href="https://ykhzgspm.mychariow.store/legal-notice" rel="noopener">Mentions légales</a>
       <a href="https://ykhzgspm.mychariow.store/terms-of-service" rel="noopener">Conditions d'utilisation</a>
       <a href="https://ykhzgspm.mychariow.store/privacy-policy" rel="noopener">Confidentialité</a>
-      <a href="https://wa.me/22995726957" rel="noopener">WhatsApp</a>
-      <a href="mailto:contact@emkbluediamond.online">contact@emkbluediamond.online</a>
+      <a href="https://wa.me/22995726957" rel="noopener" class="pied__contact"><svg class="icone-wa" aria-hidden="true"><use href="#i-whatsapp"/></svg>WhatsApp +229 95 72 69 57</a>
+      <a href="mailto:contact@emkbluediamond.online" class="pied__contact"><svg class="icone" aria-hidden="true"><use href="#i-enveloppe"/></svg>contact@emkbluediamond.online</a>
     </nav>
     <p>Livensya © 2026 · Cotonou, Bénin</p>
   </div>
@@ -101,7 +103,7 @@
 (function () {
   function typo(t) { return String(t).replace(/ ([?!:;»])/g, ' $1').replace(/« /g, '« '); }
   /* Même prénom que PRENOM_NARRATEUR dans js/app.js (laisser vide pour un texte neutre) */
-  var PRENOM_NARRATEUR = '[Prénom]';
+  var PRENOM_NARRATEUR = 'David';
   document.querySelectorAll('[data-prenom]').forEach(function (el) { el.textContent = PRENOM_NARRATEUR.trim() || el.getAttribute('data-repli') || ''; });
   try {
     var memo = JSON.parse(localStorage.getItem('lv_test') || 'null');

diff --git a/sites/livensya/LISEZMOI.md b/sites/livensya/LISEZMOI.md
@@ -3,10 +3,10 @@
 Site statique (HTML, CSS, un peu de JavaScript). Aucun serveur, aucune base de données. Poids mesuré au premier chargement sur téléphone : environ 150 Ko (moins de 500 Ko une fois toutes les images chargées ; limite fixée : 1,5 Mo).
 
 ## Version 2 (retours d'Enock)
-- **Narrateur** : la page ne parle plus d'Enock. Le narrateur est le personnage du livre. Son prénom est dans **une seule constante**, `PRENOM_NARRATEUR` en haut de `js/app.js` (valeur provisoire `'[Prénom]'`, visible exprès dans l'aperçu), et la même ligne en bas de `merci.html`. Tous les éléments `data-prenom` se remplissent seuls. Si tu laisses `''`, le texte devient neutre (« L'auteur du défi ») et la phrase « Moi, c'est … » disparaît.
-- **Histoire** : le récit est provisoire. Cherche `HISTOIRE DU LIVRE À INSÉRER` dans `index.html`.
+- **Narrateur** : la page ne parle plus d'Enock. Le narrateur est le personnage du livre. Son prénom est dans **une seule constante**, `PRENOM_NARRATEUR` en haut de `js/app.js` (valeur : `'David'`, le narrateur du livre), et la même ligne en bas de `merci.html`. Tous les éléments `data-prenom` se remplissent seuls. Si tu laisses `''`, le texte devient neutre (« L'auteur du défi ») et la phrase « Moi, c'est … » disparaît.
+- **Histoire** : l'histoire de David (préface du livre), réécrite à la 1re personne, avec la mention « L'histoire de David est inspirée de situations réelles. »
 - **Prix** : il n'apparaît que dans la carte de l'offre (3 999 F, barré 12 500 F), après « Ce que tu reçois ». Tous les autres boutons disent « Commencer le défi » ou « Faire le défi avec moi ».
-- **Contact** : WhatsApp https://wa.me/22995726957 (+229 95 72 69 57) et contact@emkbluediamond.online, dans la carte de l'offre, la FAQ, la page merci et le pied de page.
+- **Contact** : WhatsApp https://wa.me/22995726957 (+229 95 72 69 57) et contact@emkbluediamond.online, en pastilles avec icônes (logo WhatsApp, enveloppe), sans prénom ni signature, dans la carte de l'offre, la FAQ, la page merci et le pied de page.
 - **Aucune garantie** de remboursement n'est mentionnée nulle part.
 - **La confidence du test** (question sur la remarque la plus blessante) n'est jamais enregistrée ni envoyée : elle sert seulement à adapter le résultat sur le téléphone.
 
@@ -44,7 +44,7 @@ const VIDEO_SRC = '';        // ex. 'videos/defi-60-jours.mp4'
 const VIDEO_AFFICHE = '';    // ex. 'videos/affiche.webp'
 ```
 
-- **Prénom du narrateur** : `const PRENOM_NARRATEUR = '[Prénom]';` (et la même ligne dans `merci.html`).
+- **Prénom du narrateur** : `const PRENOM_NARRATEUR = 'David';` (et la même ligne dans `merci.html`).
 - **Lien de paiement** : remplace par le lien direct du produit. Sur ta boutique, le paiement du produit est à l'adresse `https://ykhzgspm.mychariow.store/prd_4bisyd7x/checkout` : vérifie qu'il marche, puis colle-le. Les paramètres publicitaires (`utm_…`, `fbclid`) de l'adresse d'arrivée sont transmis automatiquement à Chariow.
 - **Vidéo faceless** : dépose le fichier dans un dossier `videos/` (MP4 H.264, format vertical 9:16, idéalement moins de 8 Mo), puis remplis `VIDEO_SRC`. Tant que c'est vide, la section est invisible pour les visiteurs. Rien ne se charge avant le clic sur « Lire la vidéo ».
 - **Textes** : directement dans `index.html` et `merci.html`. Garde le tutoiement, pas de tiret cadratin, et pas de promesse de kilos.
@@ -79,14 +79,14 @@ Un seul envoi, côté serveur, déclenché par la vente réelle :
 4. Pas de `Purchase` dans `merci.html` (expliqué en commentaire dans la page) : elle peut être rechargée ou ouverte sans achat.
 
 ## Ce qu'Enock doit fournir ou valider
-1. **Le prénom du narrateur** (celui du livre) : à mettre dans `PRENOM_NARRATEUR` (`js/app.js` et `merci.html`).
-2. **L'histoire du livre** : à coller à la place du récit provisoire (`HISTOIRE DU LIVRE À INSÉRER`), à la 1re personne, au tutoiement.
-3. **Les photos** : elles sont désormais présentées comme celles du narrateur (« Moi, à 24 ans », « Avant », « Après »). À confirmer que c'est bien voulu.
-4. **Le prix barré 12 500 F** : à garder seulement si c'est vraiment le prix prévu après le lancement. Sur Chariow, je conseille de couper le compte à rebours « renouvelé chaque jour » (fausse urgence).
-5. **Le lien de paiement direct** (`/prd_4bisyd7x/checkout`, qui répond bien) : à confirmer puis à coller dans `LIEN_PAIEMENT`.
-6. **Deux vraies captures de pages** des PDF (une structure de repas du programme, une page du carnet) : l'emplacement `EXTRAIT` est prêt.
-7. **La phrase de service** dans la carte de l'offre (« Pas reçu ? Écris-nous sur WhatsApp ») : à garder si quelqu'un répond vraiment sur ce numéro.
-8. **Les mockups des livres** (corps générés, « votre ») : légendés « visuel d'illustration ». Pas de torse nu ni d'avant/après dans les pubs Meta.
+1. **L'histoire de David** telle qu'écrite sur la page (réécriture à la 1re personne de la préface du livre). Âge non cité dans l'histoire ; le héros garde « 24 ans, on m'en donnait 14 » comme demandé, alors que le livre dit 26 ans.
+2. **La question du miroir** : le livre écrit « sa question n'a pas été : « Qu'est-ce que je fais mal depuis tout ce temps ? » ». J'ai compris « a été » (c'est elle qui mène à la méthode). Vérifie la phrase du livre, elle semble contenir une coquille.
+3. **Les photos avant/après** sont présentées comme celles de David (« Moi, à 24 ans »), alors que David est un personnage « inspiré de situations réelles ». Une partie des visiteurs prendra ces photos pour celles d'un vrai client : à toi de décider si tu gardes cette présentation, ou si tu ajoutes une légende du type « photos réelles d'avant et d'après ».
+4. **Les phrases de David dans le test** (« Moi aussi, j'ai entendu ces phrases », « le jour où une personne que j'appréciais m'a dit qu'elle me voyait comme un frère », « Moi aussi, j'ai eu des jours sans motivation », « Pour moi non plus, ça n'a pas marché ») : alignées sur le livre (préface et carnet du jour 52).
+5. **Le prix barré 12 500 F** : à garder seulement si c'est vraiment le prix prévu après le lancement. Sur Chariow, couper le compte à rebours « renouvelé chaque jour » (fausse urgence).
+6. **Le lien de paiement direct** (`/prd_4bisyd7x/checkout`) : à confirmer puis à coller dans `LIEN_PAIEMENT`.
+7. **Deux vraies captures de pages** des PDF (emplacement `EXTRAIT` prêt).
+8. **Les mockups des livres** (corps générés, « votre », « ENOCK M. ») : légendés « visuel d'illustration ». Pas de torse nu ni d'avant/après dans les pubs Meta.
 9. **L'ID du Pixel Meta** (le jeton API Conversions reste côté serveur).
-10. **La vidéo faceless** quand elle sera prête, puis de vrais témoignages, avec accord.
+10. **La vidéo faceless**, puis de vrais témoignages avec accord.
 11. **Ton ✅** sur l'aperçu avant toute mise en ligne.

diff --git a/sites/livensya/DESIGN.md b/sites/livensya/DESIGN.md
@@ -119,3 +119,4 @@ Un seul fichier `js/tracking.js`, `PIXEL_ID` vide = rien n'est chargé. Pixel st
 | 2 | 8 | 8,5 | 5,5 | 6,5 | Enock signe la carte de l'offre (photo + contact), ligne de réassurance après paiement, bouton d'achat direct dans le résultat, bloc forêt au milieu, assiette de riz dessinée, légende du jour raté, carte « test terminé » remplacée |
 | 3 | 8 | 8,5 | 6 | 7 | Assiettes recolorées dans la palette. Ce qui bloque sous 8 : absence de témoignages, de garantie, de contact direct (e-mail ou WhatsApp) et de vraies pages du PDF. À fournir par Enock. |
 | v2 (1 tour) | 8 | 8 | 5,5 | 6,5 | Après les retours d'Enock (narrateur du livre, prix seulement dans l'offre, test en conversation). Corrigé ensuite : légende « Aujourd'hui », projection au conditionnel doux, « moins de 70 F par jour » au lieu de « prix de lancement », lien WhatsApp sous le bouton d'achat, FAQ « Les repas coûtent cher ? » ouverte. Bloque encore : « [Prénom] » et l'histoire provisoire, absence d'avis et de vraies pages du PDF, mockups générés. |
+| v3 (1 tour) | 8 | 8,5 | 5,5 | 6,5 | Narrateur David, histoire du livre, contacts en pastilles avec icônes, effets en direct dans le final. Corrigé ensuite : FAQ « femmes » ouverte, nouvelle FAQ « Et si ça ne marche pas pour moi ? », une seule anecdote « comme un frère » dans le test, un seul bouton dans le résultat, légende du héros décollée du cadre. Bloque encore : mockups générés (« ENOCK M. », « votre »), photos réelles présentées comme celles d'un personnage, aucun avis. |
